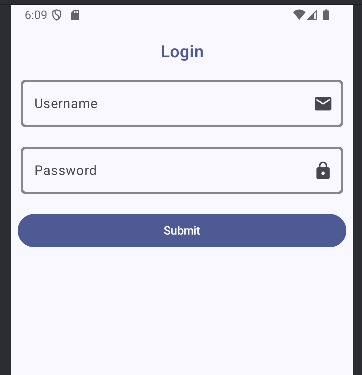
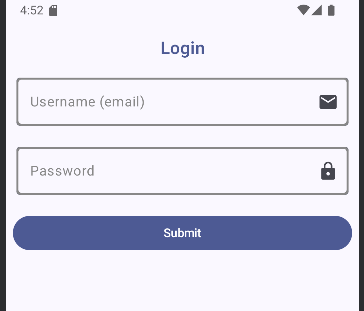
Finished login form exercise

Changed region(s): [[0.0, 0.0, 1.0, 1.0]]

diff --git a/app/src/main/java/com/example/login_form/MainActivity.kt b/app/src/main/java/com/example/login_form/MainActivity.kt
@@ -47,6 +47,7 @@ class MainActivity : ComponentActivity() {
         setContent {
             LoginformTheme {
                 Scaffold(modifier = Modifier.fillMaxSize()) { innerPadding ->
+                    // pass full size minus padding to login form
                     LoginForm(modifier = Modifier.padding(innerPadding))
                 }
             }
@@ -56,15 +57,23 @@ class MainActivity : ComponentActivity() {
 
 @Composable
 fun LoginForm(modifier: Modifier = Modifier) {
+    // local state variables, just for practise -> functionality not really needed for UI demo
     var username by remember { mutableStateOf("")}
     var password by remember { mutableStateOf("")}
+    //variables for error handling after submitting
+    var submitted by remember {mutableStateOf(false)} // initially false
+    // check that username email-value has correct format ("@" and ".com/etc")
+    val emailValid = android.util.Patterns.EMAIL_ADDRESS.matcher(username).matches()
+    val showEmailError = submitted && !username.isEmpty() && !emailValid
+    val passwordError = submitted && password.isEmpty()
 
-    val roundedShape = RoundedCornerShape(6.dp)
+    // input field styling modifier, reusable for both fields
     val inputFieldStyle = Modifier
         .padding(12.dp)
-        .border(2.dp, Color.Gray, roundedShape)
+        .border(2.dp, Color.Gray, RoundedCornerShape(6.dp))
         .fillMaxWidth()
 
+    // button styling modifier
     val buttonStyle = Modifier
         .padding(8.dp)
         .fillMaxWidth()
@@ -83,28 +92,51 @@ fun LoginForm(modifier: Modifier = Modifier) {
             fontSize = 20.sp,
             fontWeight = FontWeight.SemiBold
         )
+        // username (email) input field
         OutlinedTextField(
             value = username,
             onValueChange = { username = it },
-            placeholder = { Text("Username")},
+            placeholder = {
+                Text(
+                    text = "Username (email)",
+                    color = Color.Gray // muted placeholder text
+                )},
             singleLine = true,
             modifier = inputFieldStyle,
+            /* keyboard options tells the system what type of input is expected
+               so appropriate keyboard can be shown (e.g. including "@" character) */
             keyboardOptions = KeyboardOptions(
                 keyboardType = KeyboardType.Email
             ),
-            // icon at the end of the input field (trailing)
+            // icon at the end of the input field (trailing, could also be leading)
             trailingIcon = { Icon(
                 Icons.Default.Email,
                 contentDescription = "email-icon",
                 modifier = Modifier.padding(4.dp)
-            ) }
+            ) },
+            /* if email is missing required characters, error is set to be true
+               and input fields get red error color for cursor and icon by default */
+            isError = showEmailError
         )
+            // error handling display for incorrect email-type
+            if (showEmailError) {
+                Text(
+                    text = "Please enter valid email address",
+                    color = Color.Red,
+                    modifier = Modifier.padding(5.dp)
+                ) }
+
+        // password input field
         OutlinedTextField(
             value = password,
             onValueChange = { password = it },
             visualTransformation = PasswordVisualTransformation(),
             singleLine = true,
-            placeholder = { Text("Password") },
+            placeholder = {
+                Text(
+                    text = "Password",
+                    color = Color.Gray
+                ) },
             modifier = inputFieldStyle,
             keyboardOptions = KeyboardOptions(
                 keyboardType = KeyboardType.Password
@@ -113,11 +145,21 @@ fun LoginForm(modifier: Modifier = Modifier) {
                 Icons.Default.Lock,
                 contentDescription = "password-lock-icon",
                 modifier = Modifier.padding(4.dp)
-            ) }
+            ) },
+            isError = passwordError
         )
+            // error display for empty password
+            if (passwordError) {
+                Text(
+                    text = "Password can't be empty",
+                    color = Color.Red,
+                    modifier = Modifier.padding(5.dp)
+                )}
+
         Button(
+            // no redirect functionality, just error messages to composable UI
             onClick = {
-                println("User $username has logged in")
+                submitted = true
             },
             modifier = buttonStyle,
             shape = ButtonDefaults.shape,

diff --git a/README.md b/README.md
@@ -1,32 +1,35 @@
 ## Login form UI exercise
 
-This is a very simple **Kotlin + Jetpack Compose** user interface of login form for Android app.
+This is a very simple **Kotlin + Jetpack Compose** user interface of login form for Android app. 
+Code contains inline comments to clarify UI layout and compose elements.
+
+### Screenshots
+<table>
+<tr>
+<td><img src="img.png" width="150"/></td>
+<td><img src="img_1.png" width="150"/></td> 
+<td><img src="img_2.png" width="150"/></td>
+</tr>
+</table> 
 
 ### Description
 This project implements a basic login screen layout with:
 - Username (email) input field
 - Password input field with hidden characters
 - Submit button
+- Error messages
 
-The project doesn't implement proper authentication, validation or backend logic. \
-Pressing submit-button doesn't perform real login operation or redirect to another view.
+The project doesn't implement authentication or backend logic. 
+Basic UI-level validation is done to demonstrate error states (proper email type check and password not being empty). 
+Pressing submit-button doesn't perform real login operation or redirect to another view, only displays error messages.
 
 ### Features
 - `Column` layout to arrange elements vertically
 - `OutlinedTextField` components with trailing icons (default mail and lock icons)
-- Proper keyboard types for email and password\
-  (KeyboardOptions -> KeyboardType.Email and KeyboardType.Password)
+- Proper `keyboard types` for email and password (KeyboardOptions)
 - Password masking using `PasswordVisualTransformation`
 - Styling uses modifiers (padding, width, colors, borders)
-
-### Screenshots
-
-<table>
-<tr>
-<td><img src="img.png" width="300"/></td>
-<td><img src="img_1.png" width="300"/></td>
-</tr>
-</table>
+- `isError` to define error states
 
 ### Running the app
 This project was created using Android Studio.
@@ -37,3 +40,4 @@ To clone and open the project:
 - open the project in Android Studio
 
 -> UI should render on emulator and physical devices
+
